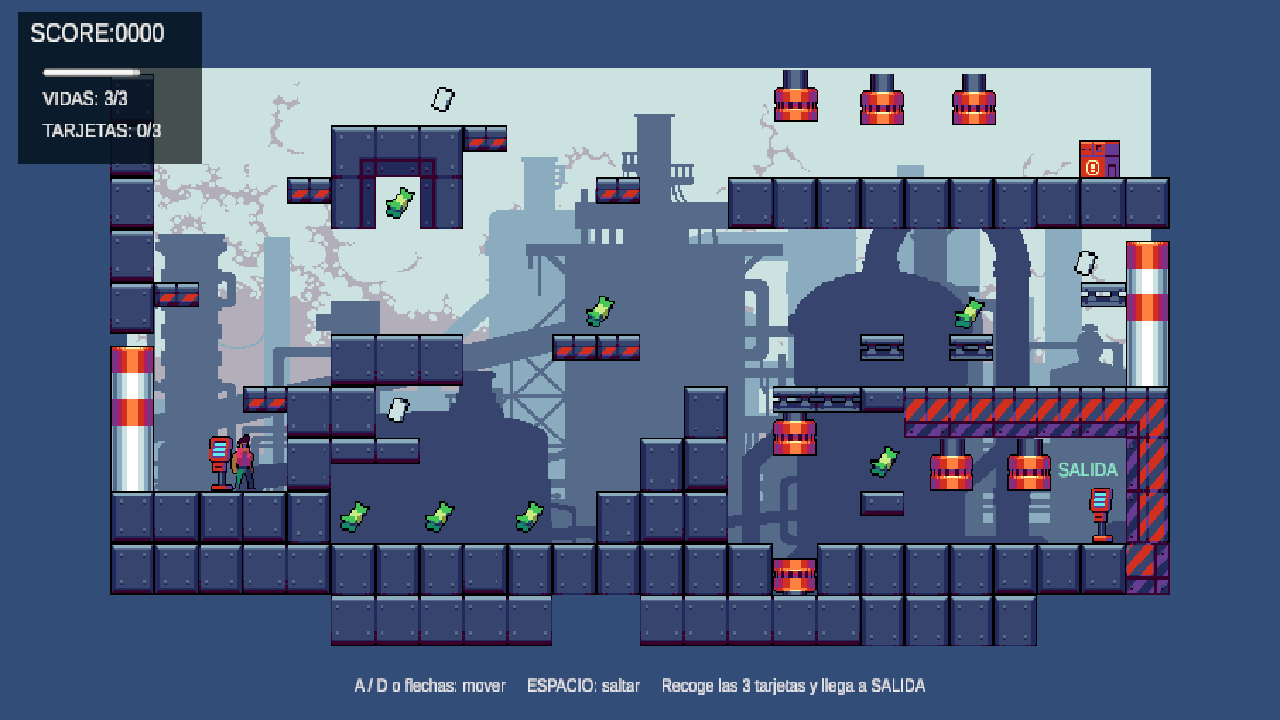
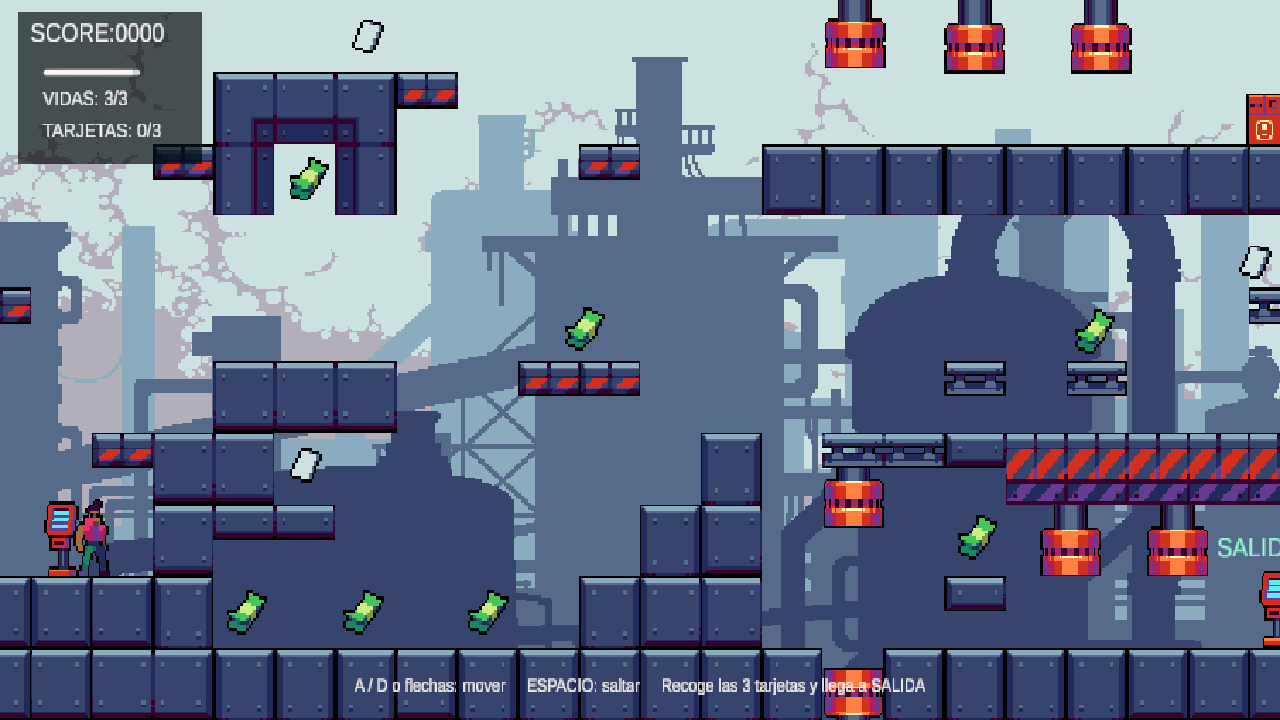
Restaura el encuadre original sin márgenes azules
Restablece la cámara a posición (0, 0, -10) y tamaño ortográfico 5. Conserva la tarjeta recolocada y los demás ajustes de juego. Actualiza la documentación y la captura.

diff --git a/CLASE_2.md b/CLASE_2.md
@@ -31,15 +31,15 @@ SampleScene
 ├─ Salida — tag Salida, BoxCollider2D Trigger, cartel SALIDA
 ├─ Fondo_Tilemap — tag Suelo y collider 2D
 ├─ Partida — Partida.cs; cuenta tarjetas y gestiona salida y fin
-├─ Main Camera — fija; Orthographic, centro (0, -0.5, -10), tamaño 6.9
+├─ Main Camera — fija; Orthographic, posición (0, 0, -10), tamaño 5
 └─ Canvas — puntuación, vidas, tarjetas, barra y panel de fin
 ```
 
-La escena contiene 18 objetos de recogida y daño: 7 de dinero, 3 tarjetas, 1 cofre y 7 martillos, además de la salida. Se eliminó `/Cofres` en la zona inferior (antes en **(10.466, -3.50)**) y se conserva `/Chest_0` en la parte superior. `/Card_0 (1)` se movió de **(10.46, 1.36)** a **(10.1, 1.36)** para que quede dentro del encuadre. El HUD incluye el contador de tarjetas. La cámara permanece fija y encuadra el nivel, las tarjetas y la salida sin recortes. Se conservan los dibujos existentes; no se añadieron scripts de cámara ni código generador.
+La escena contiene 18 objetos de recogida y daño: 7 de dinero, 3 tarjetas, 1 cofre y 7 martillos, además de la salida. Se eliminó `/Cofres` en la zona inferior (antes en **(10.466, -3.50)**) y se conserva `/Chest_0` en la parte superior. `/Card_0 (1)` se movió de **(10.46, 1.36)** a **(10.1, 1.36)** y se mantiene recolocada. El HUD incluye el contador de tarjetas. La cámara fija conserva su encuadre original y llena la pantalla sin márgenes azules: Orthographic, posición **(0, 0, -10)** y tamaño **5**. Se conservan los dibujos existentes; no se añadieron scripts de cámara ni código generador.
 
 ## Cambios recientes — 16 de octubre de 2026
 
-La variante de trabajo queda documentada en la rama `clase2-experimental`, que sustituye la variante anterior y conserva su historial. Se mantiene el daño de martillos solo en los tramos `Hammer_2`–`Hammer_6`, con seguridad en `Hammer_7`, `Hammer_0` y `Hammer_1`, y velocidad de animación 0,5. También se conserva la aparición junto a la pantalla roja y la salida que se habilita al recoger tres tarjetas. En esta actualización se retiró el cofre inferior, se colocó la salida al final del nivel, se ajustó la tarjeta al encuadre y se fijó la cámara para mostrar el nivel completo.
+La variante de trabajo queda documentada en la rama `clase2-experimental`, que sustituye la variante anterior y conserva su historial. Se mantiene el daño de martillos solo en los tramos `Hammer_2`–`Hammer_6`, con seguridad en `Hammer_7`, `Hammer_0` y `Hammer_1`, y velocidad de animación 0,5. También se conserva la aparición junto a la pantalla roja y la salida que se habilita al recoger tres tarjetas. Se retiró el cofre inferior, se colocó la salida al final del nivel y se recolocó la tarjeta. La cámara vuelve a su configuración original (posición **(0, 0, -10)**, tamaño ortográfico **5**) para llenar la pantalla sin márgenes azules.
 
 ## Relación con los apuntes
 
@@ -56,6 +56,6 @@ Compilación comprobada sin errores de C#. Se comprobaron en Play los ocho fotog
 
 Se comprobó la aparición junto a la pantalla roja; la salida bloqueada con cero, una o dos tarjetas; su apertura al recoger la tercera; el HUD 3/3 y 75 puntos por las tres tarjetas; la victoria al tocar la pantalla; el personaje detenido en Idle y el reinicio con tres vidas, cero tarjetas y la salida bloqueada. Las comprobaciones previas de recogida, derrota, fricción de paredes y caída sin daño se mantienen. Unity quedó fuera de Play.
 
-Tras los últimos cambios se repitieron en Play las comprobaciones de recogida de las tres tarjetas, bloqueo y apertura de la salida, victoria y reinicio. También se verificó que las tres tarjetas y la pantalla de salida quedan completas dentro de un encuadre 16:9 y que solo permanece el cofre superior. Estas pruebas de interacción desplazan al personaje hasta los objetos; no sustituyen una partida manual completa para valorar la dificultad del recorrido.
+Tras los últimos cambios se repitieron en Play las comprobaciones de recogida de las tres tarjetas, bloqueo y apertura de la salida, victoria y reinicio. También se comprobó que solo permanece el cofre superior. Estas pruebas de interacción desplazan al personaje hasta los objetos; no sustituyen una partida manual completa para valorar la dificultad del recorrido. La cámara se documenta con su encuadre original; no se añaden pruebas nuevas de Play.
 
-![Nivel con la salida al final y las tarjetas dentro del encuadre](Documentacion/clase2.png)
+![Escena con la cámara en su encuadre original y los objetos recolocados](Documentacion/clase2.png)
